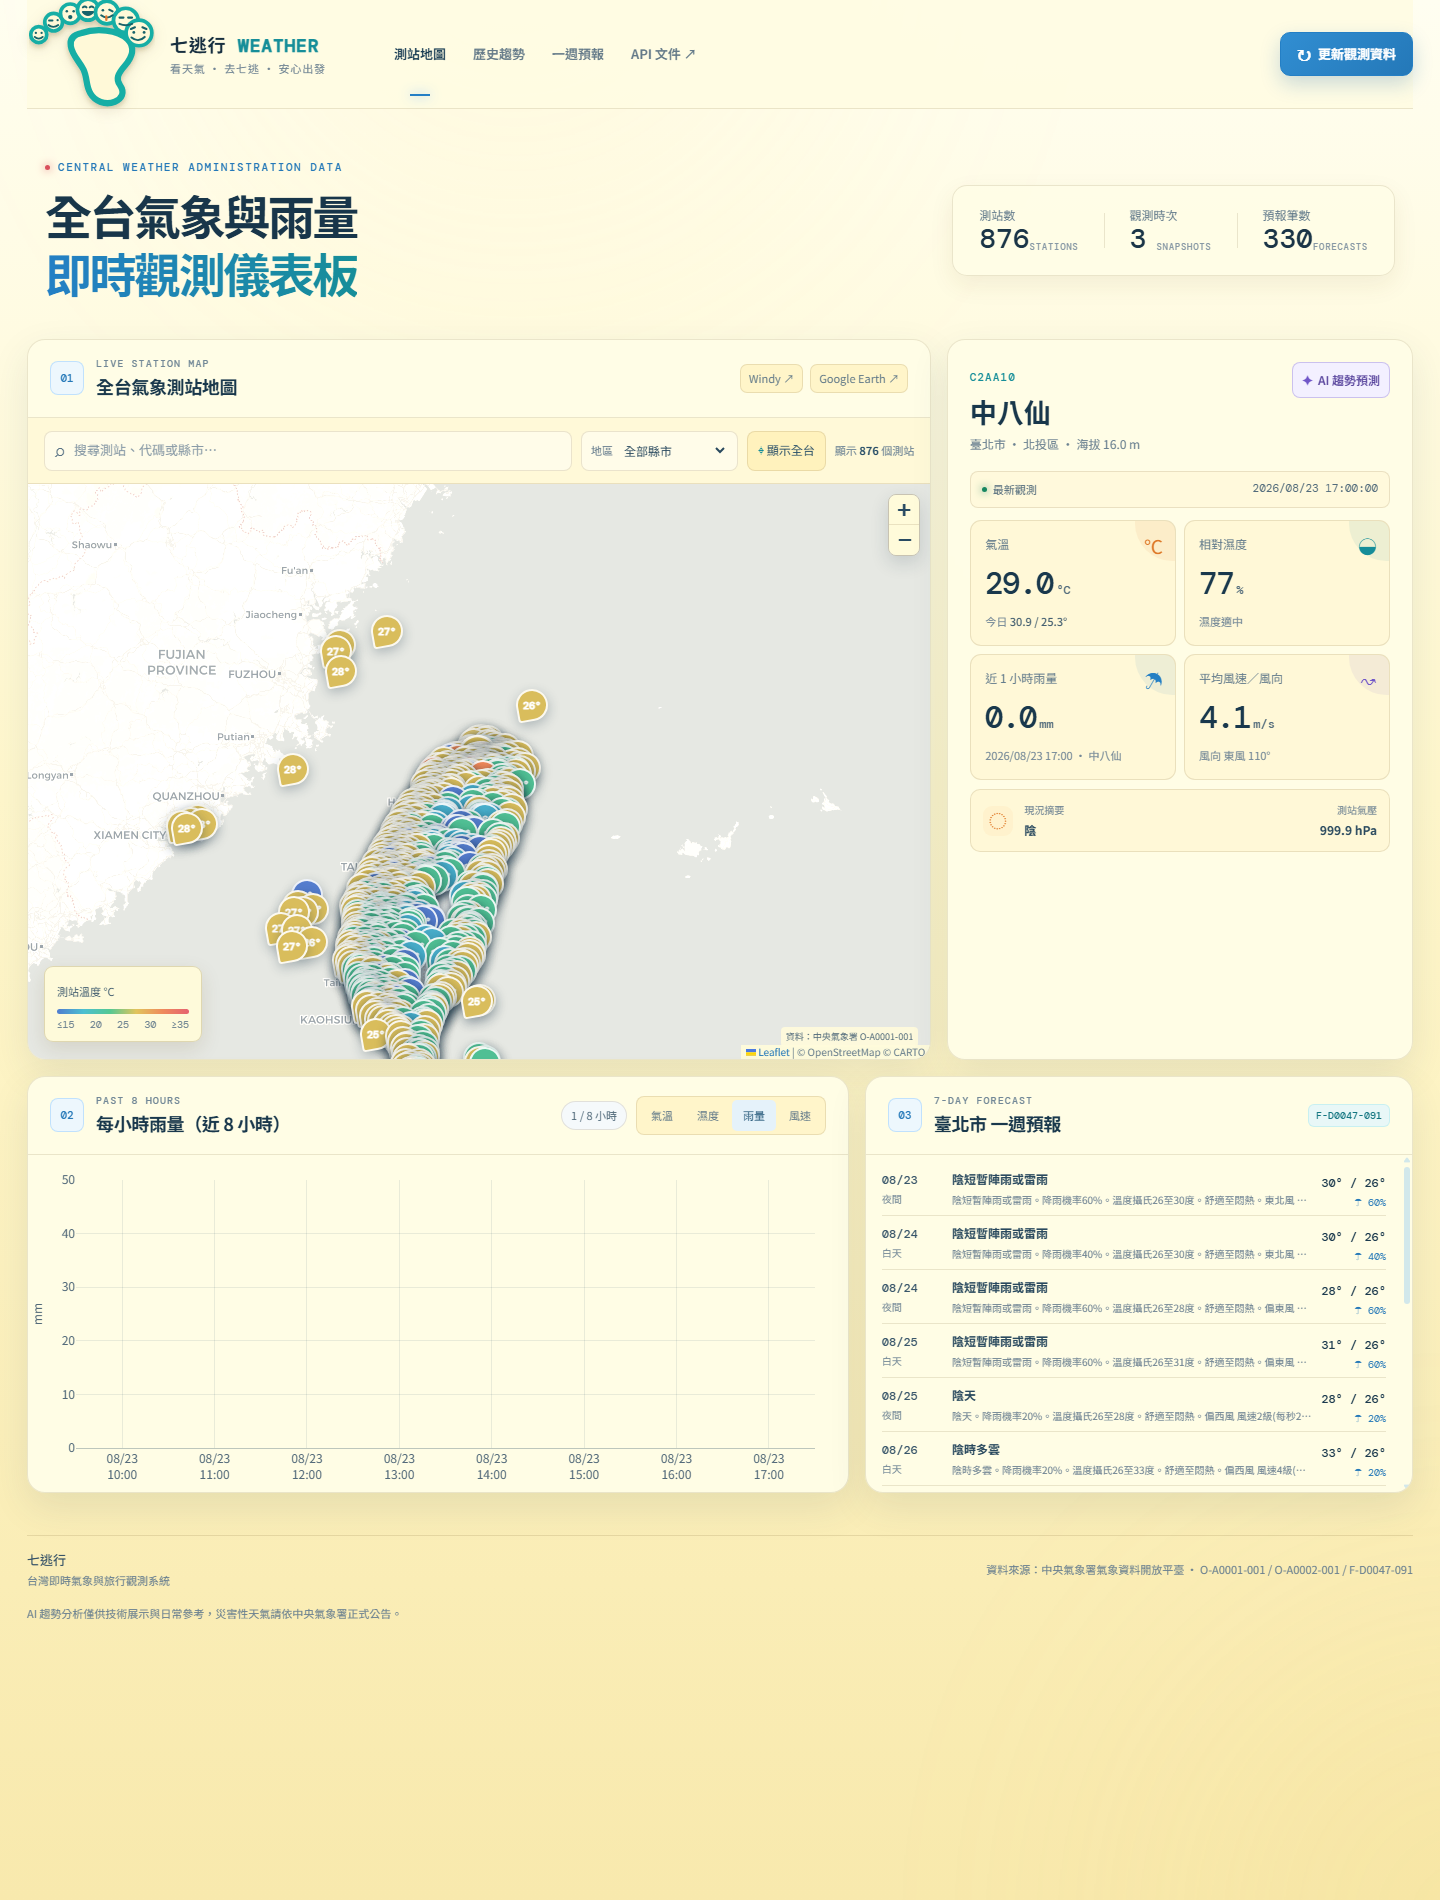
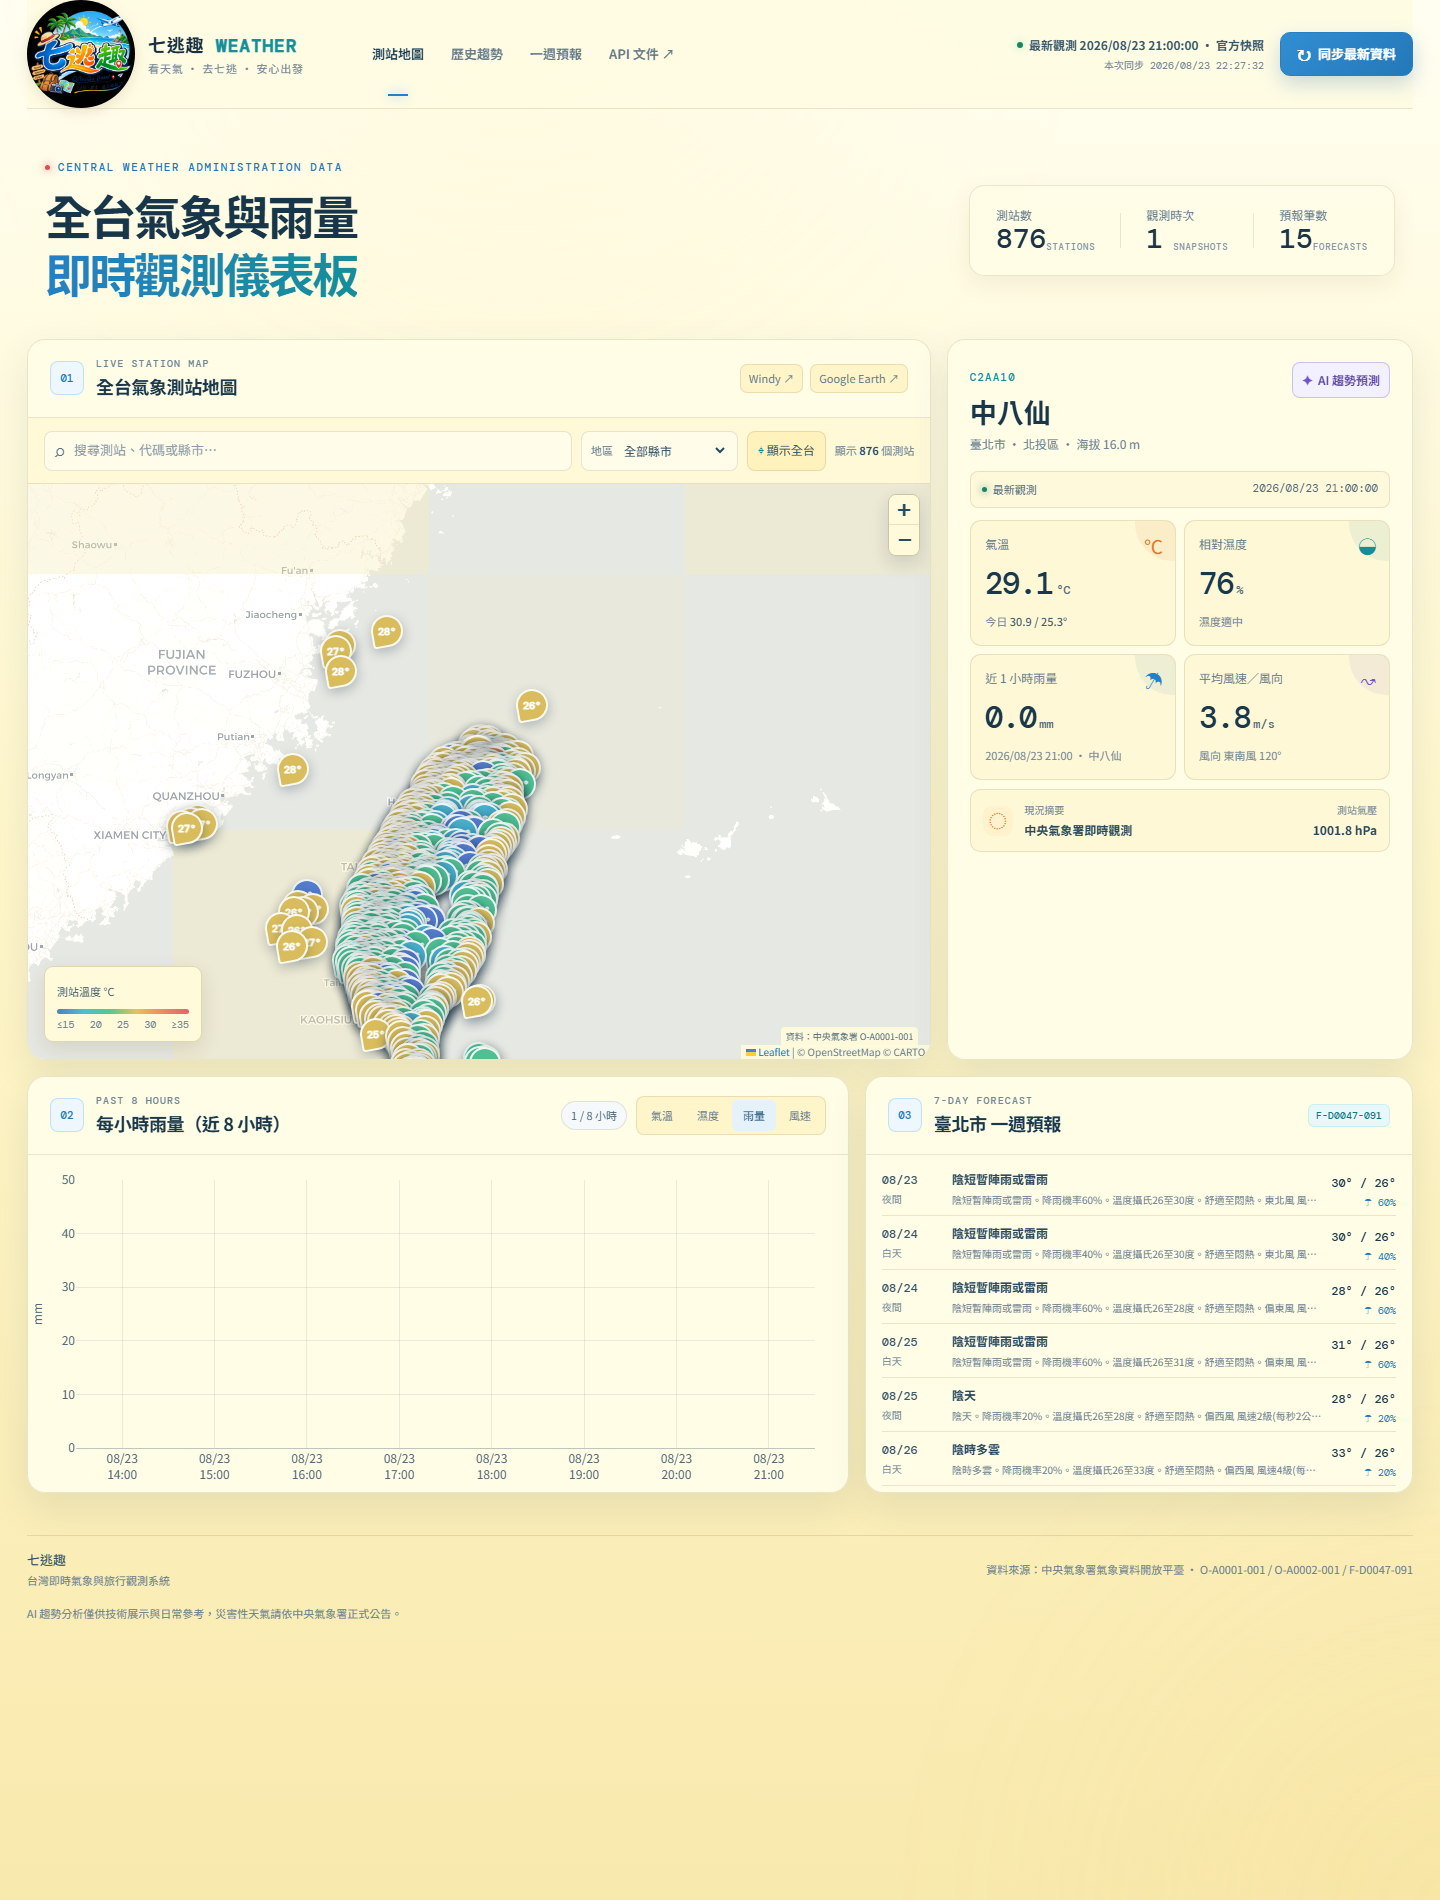
docs: refresh Qita weather dashboard screenshot

diff --git a/qita-weather/project.html b/qita-weather/project.html
@@ -69,8 +69,8 @@
             <a class="demo-launch" href="https://lilujj03-oss-github-io.vercel.app/qita-weather/index.html" target="_blank" rel="noreferrer">操作即時地圖 ↗</a>
           </div>
           <figure class="dashboard-shot">
-            <a href="./assets/dashboard-rainfall.png" target="_blank" title="在新分頁開啟原尺寸截圖">
-              <img src="./assets/dashboard-rainfall.png" alt="七逃趣氣象儀表板實測畫面，包含台灣測站地圖、即時資訊、每小時雨量與一週預報" />
+            <a href="./assets/dashboard-rainfall.png?v=20260823-2" target="_blank" title="在新分頁開啟原尺寸截圖">
+              <img src="./assets/dashboard-rainfall.png?v=20260823-2" alt="七逃趣氣象儀表板實測畫面，包含台灣測站地圖、即時資訊、每小時雨量與一週預報" />
             </a>
             <figcaption><span>實際瀏覽器測試畫面</span><time datetime="2026-08-23">2026/08/23</time></figcaption>
           </figure>
